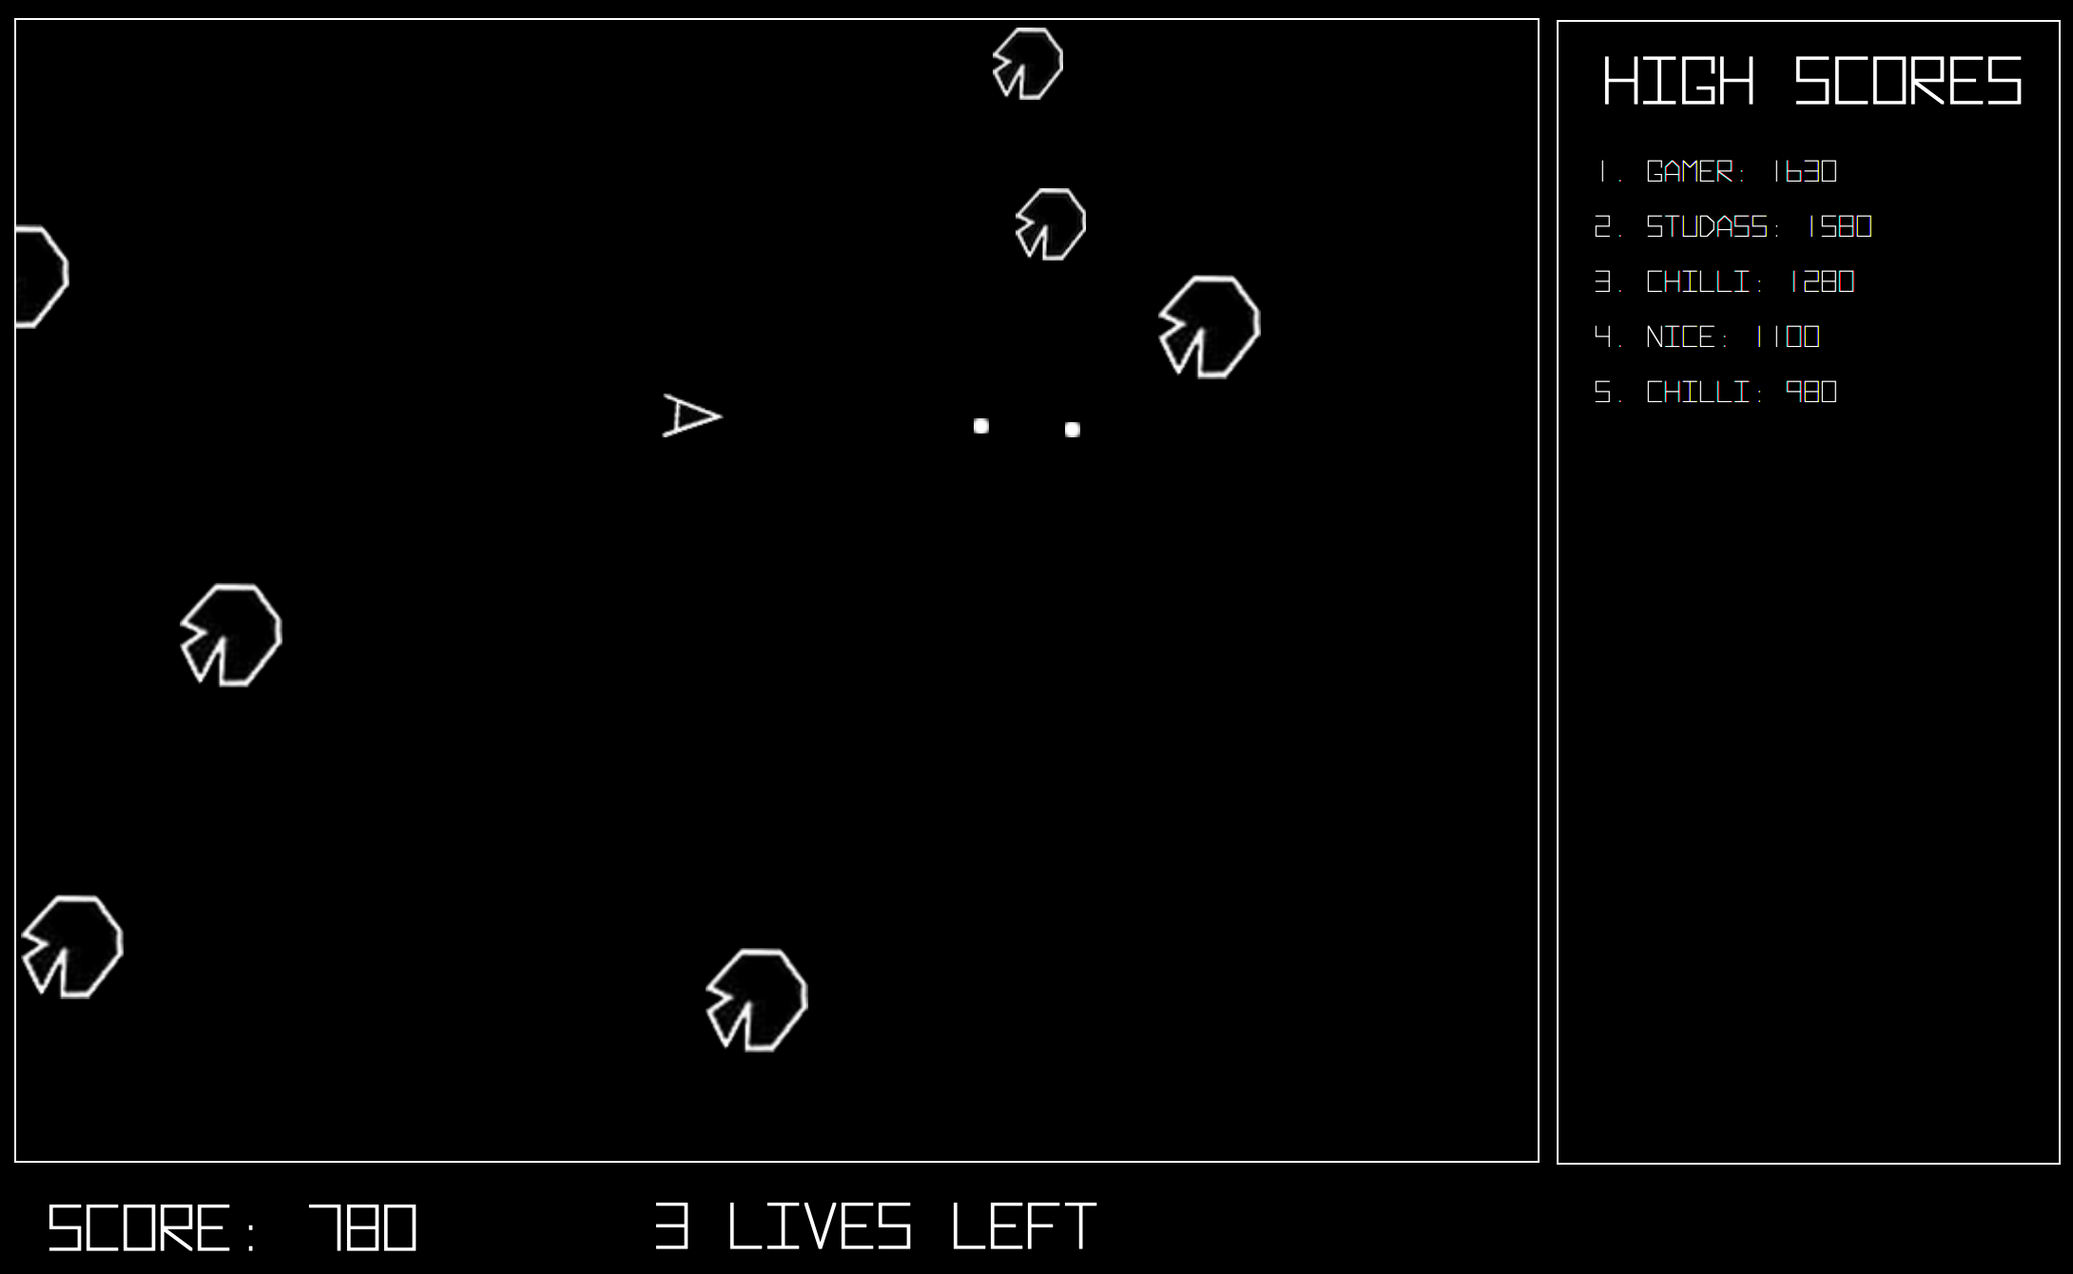
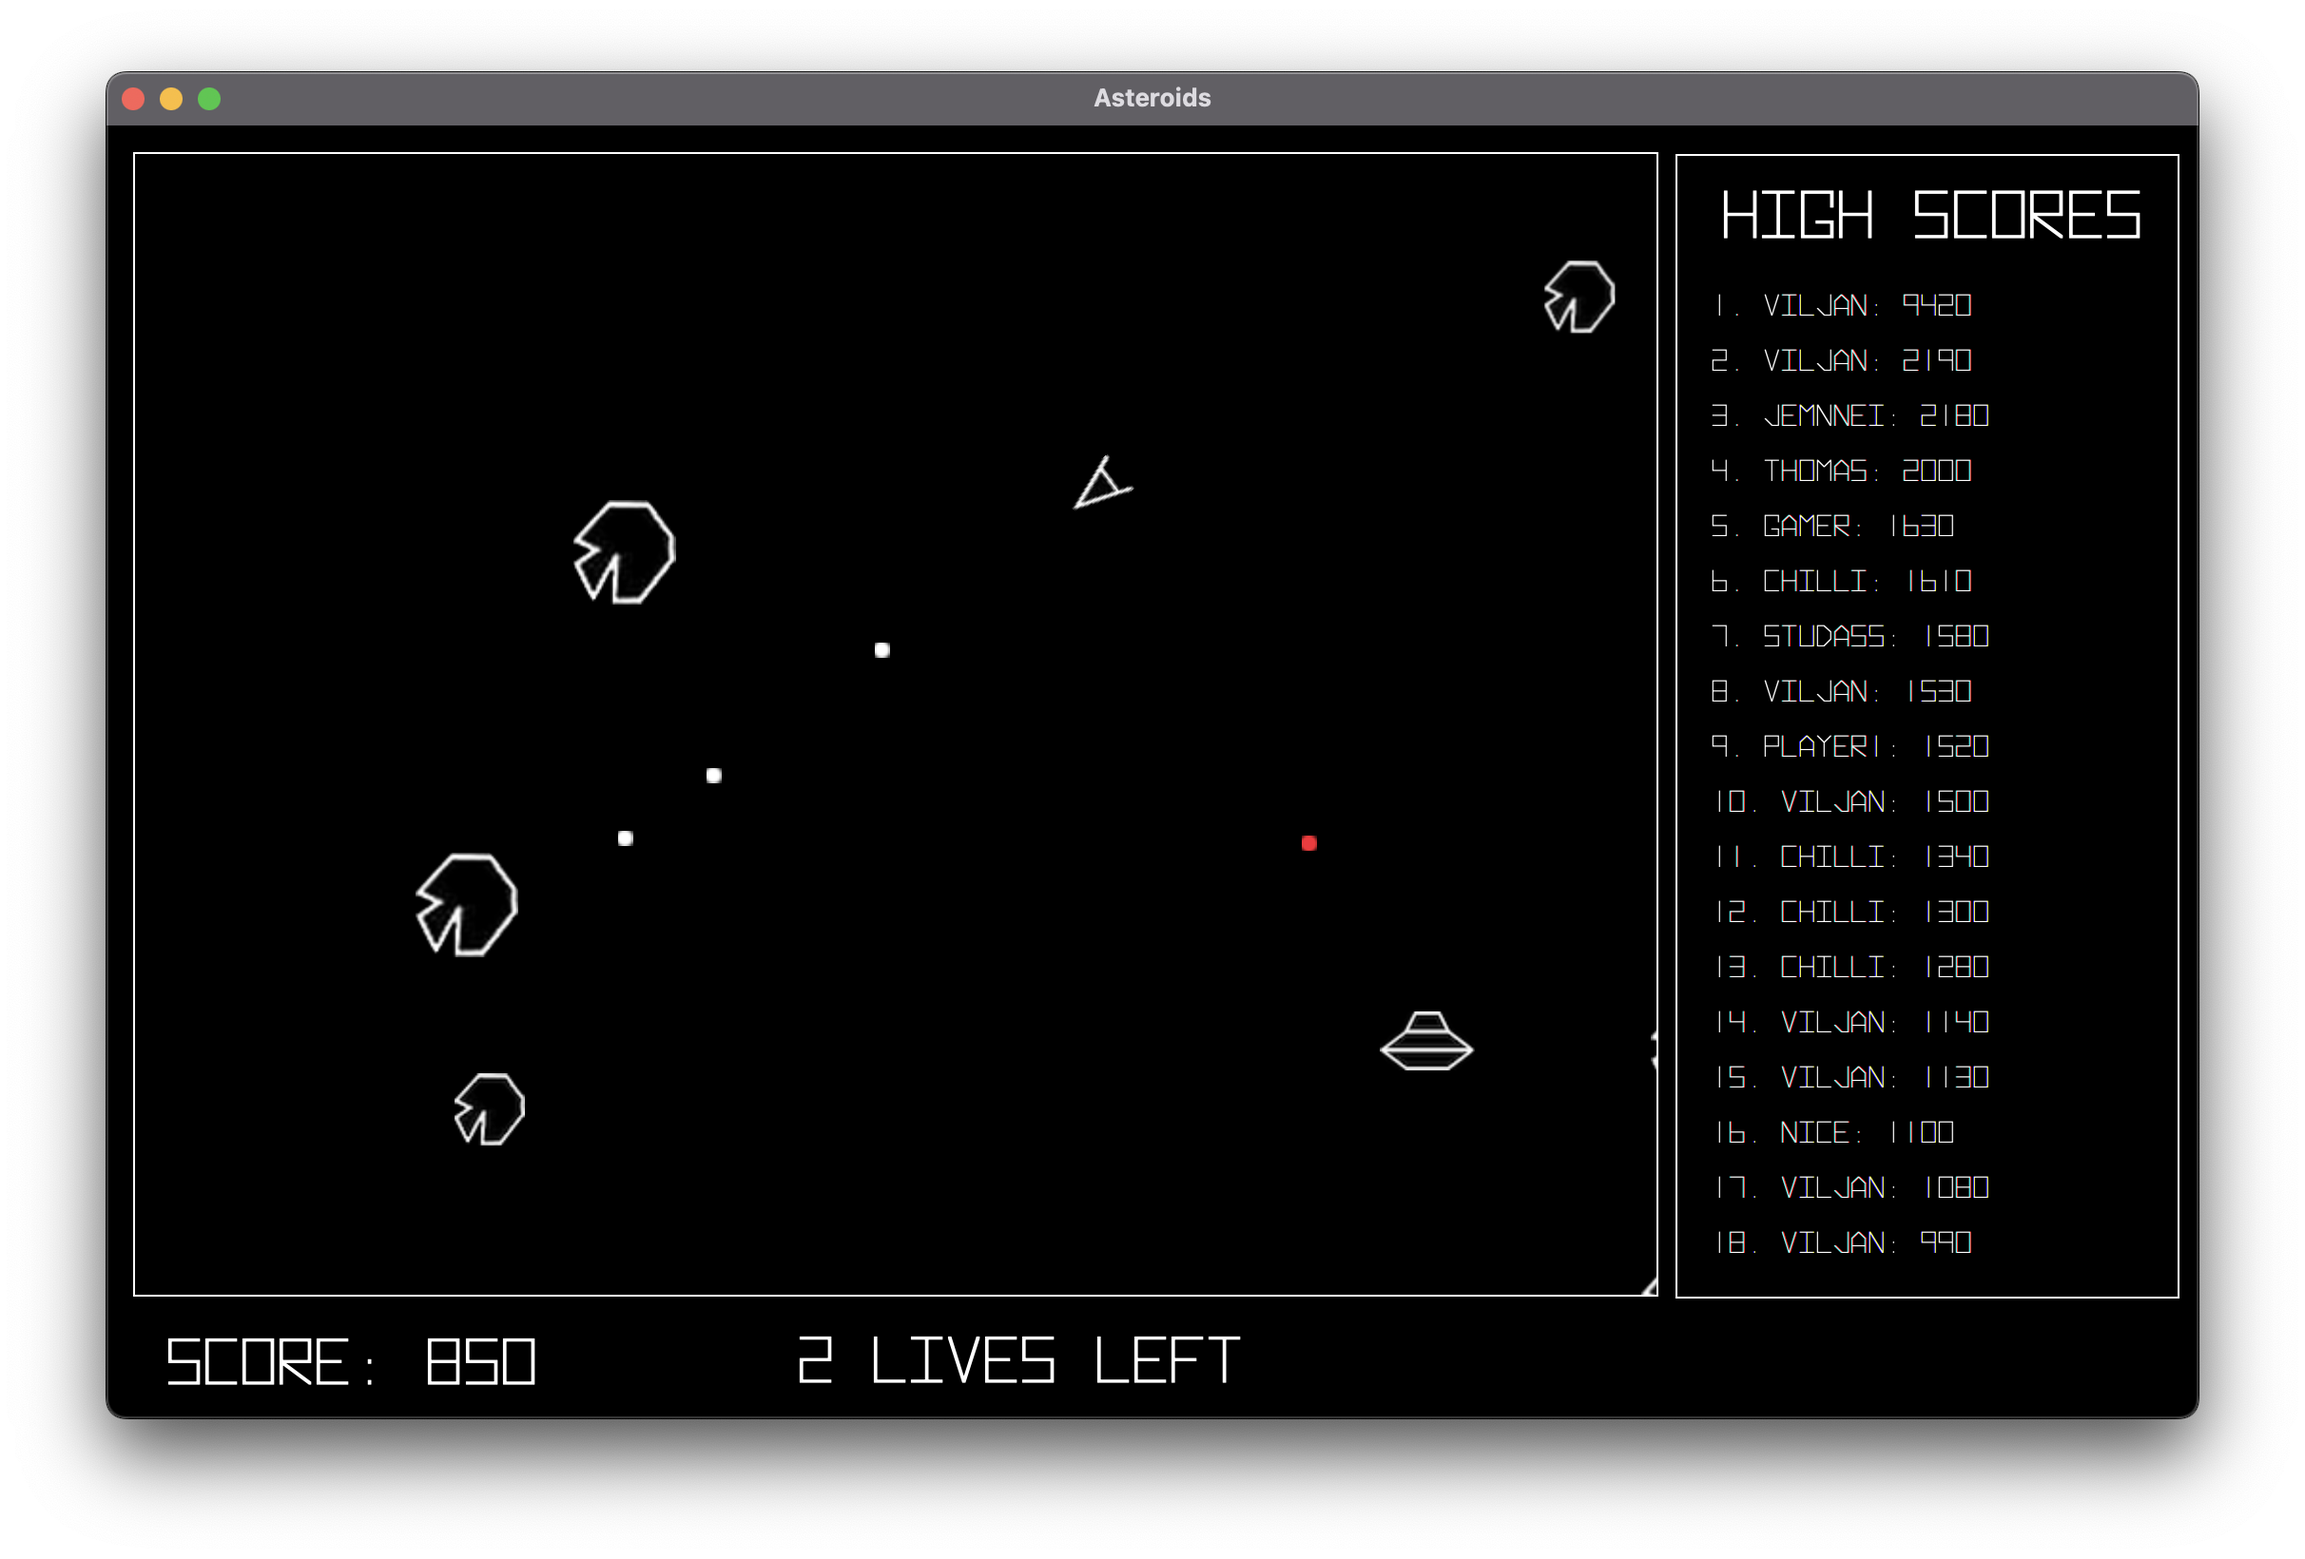
Update README.md

diff --git a/src/main/java/asteroids/UFO.java b/src/main/java/asteroids/UFO.java
@@ -20,7 +20,7 @@ public class UFO extends Sprite {
                                 : randomNumber < 0.75 ? Math.random() * Math.PI / 2 + Math.PI / 4
                                         : Math.random() * Math.PI / 2 + 5 * Math.PI / 4),
                 50, 31,
-                "asteroids/images/UFO.png");
+                "asteroids/images/ufo.png");
     }
 
     @Override

diff --git a/src/main/java/asteroids/Settings.java b/src/main/java/asteroids/Settings.java
@@ -7,12 +7,10 @@ import java.io.FileNotFoundException;
 import java.io.FileReader;
 import java.io.FileWriter;
 import java.io.IOException;
-import java.util.ArrayList;
 import java.util.HashMap;
 import java.util.List;
 import java.util.regex.Pattern;
 import java.util.stream.Collectors;
-import javafx.util.Pair;
 
 public class Settings implements SaveHandler {
 

diff --git a/README.md b/README.md
@@ -1,20 +1,42 @@
 # **Asteroids**
 
-**In the game asteroids you controll a spaceship flying thorugh space. You have one objective: shoot asteroids and not get hit by the asteroids yourself. You can thrust by pressing the up-arrow, steer using left- and right-arrow. Lastly, you shoot by pressing space. Hitting a large asteroid gives you 20 points, and it will split up into 3 new small asteroids, which each gives you 10 points when you destroy them. The game has a built in scoreboard. Every time you time you have the posibility to save your score alongside with a playername.**
+<p>
+    <figure align="center">
+        <img src="pictures/AsteroidsGame.png" alt="Asteroids game" width="1000"/>
+    </figure>
+</p>
 
-**You can launch the game by running [AsteroidsApp](src/main/java/asteroids/AsteroidsApp.java).**
+**In the game Asteroids you are in controll of a spaceship. You have one objective: shoot asteroids and do not get hit by the asteroids yourself. You can thrust by pressing the up-arrow, steer using left- and right-arrow. Lastly, you shoot by pressing space. Hitting a large asteroid gives you 20 points, and it will split up into 3 new small asteroids, which each gives you 10 points when you destroy them. In addition UFO's can spawn, and they shoot red lasers back at you. Destroying the UFO's wil give you 50 points.**
 
-<figure>
-<img src="pictures/AsteroidsGame.png" alt="Asteroids game" width="1000"/>
-</figure>
+You start the game by running [AsteroidsApp.java](src/main/java/asteroids/AsteroidsApp.java).
 
 ---
 
 ## Screenshots
 
 <p>
-<img src="pictures/GameOverScreen.png" alt="Asteroids game" width="500"/>
-<img src="pictures/NewGameScreen.png" alt="Asteroids game" width="500"/>
-<figcaption>Game over screen: You have to posibility to either save or discard your score and then start a new game. </figcaption>
+    <figure align="center">
+        <img src="pictures/NewGameScreen.png" alt="New game screen" width="500"/>
+        <figcaption><i>New game menu appearing when starting up the game.</i></figcaption>
+    </figure>
+</p>
+<p>
+    <figure align="center">
+        <img src="pictures/GameOverScreen.png" alt="Game over screen" width="500"/>
+        <figcaption><i>Game over menu where you can save your score with along side a player name.</i></figcaption>
+    </figure>
+</p>
+<p>
+    <figure align="center">
+        <img src="pictures/SettingsScreen.png" alt="Settings screen" width="500"/>
+        <figcaption><i>The game lets you adjust difficulty and audio from the settings. You can also see the controls and a section about the game. </i></figcaption>
+    </figure>
+</p>
+<p>
+    <figure align="center">
+        <img src="pictures/ParticleEffects.png" alt="Particle effects" width="500"/>
+        <figcaption><i>When you shoot an asteroid or a spaceship, it will explode into many small pieces.</i></figcaption>
+    </figure>
+</p>
 
-**_Made by Arash and Viljan_**
+_Made by [Arash](https://github.com/Arashfa0301) and [Viljan](https://github.com/viljanvr)._
